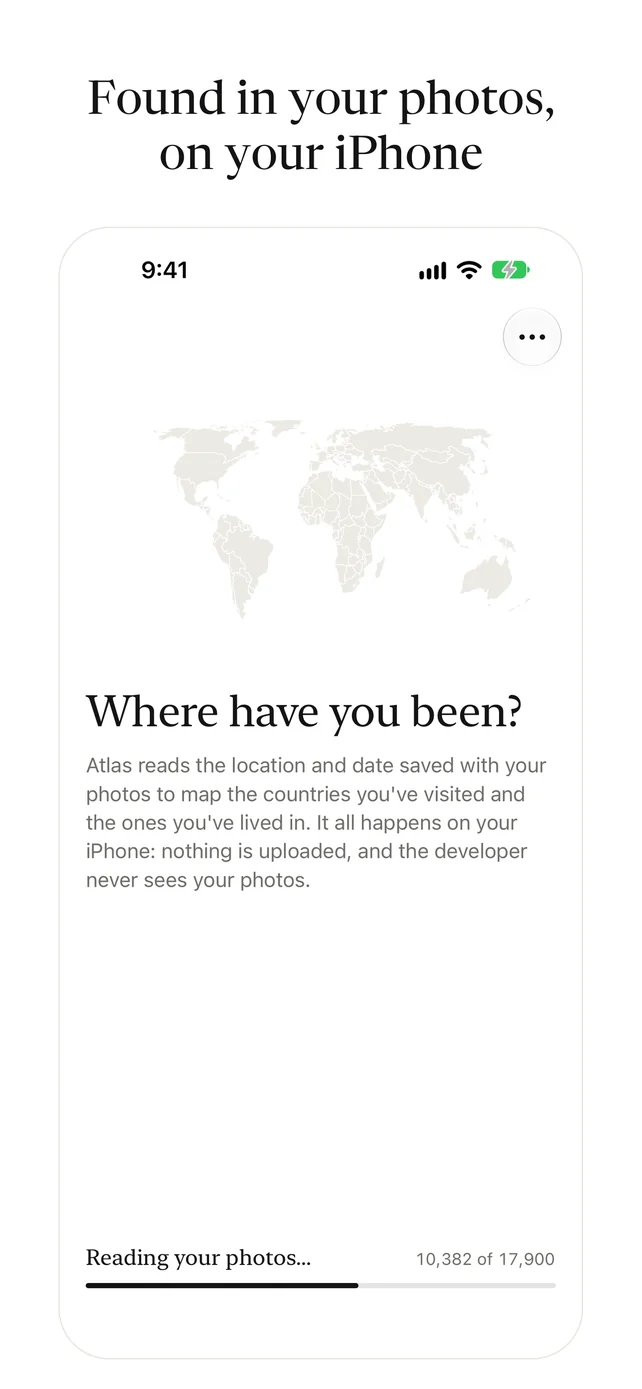
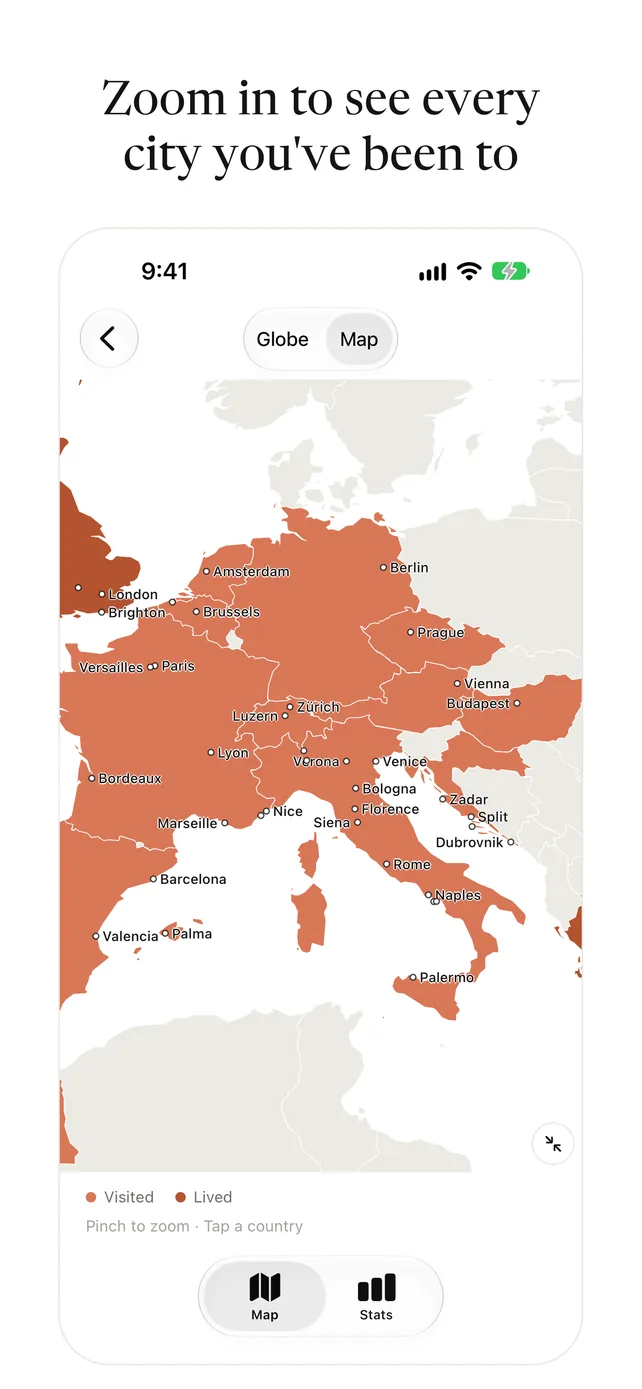
Atlas page for 1.2: cities, one-country share, globe video and zoom, land share, tips; new screenshots and FAQ

diff --git a/atlas/index.html b/atlas/index.html
@@ -3,8 +3,8 @@
 <head>
   <meta charset="utf-8">
   <meta name="viewport" content="width=device-width, initial-scale=1">
-  <title>Atlas: Every country you&#x27;ve been to, from your photos.</title>
-  <meta name="description" content="Atlas finds the countries you&#x27;ve been to in the photos on your iPhone and puts them on a world map. It reads only the location and date saved with each photo, on the phone. There is no account, and nothing is uploaded.">
+  <title>Atlas: Every country and city you&#x27;ve been to, from your photos.</title>
+  <meta name="description" content="Atlas finds the countries and cities you&#x27;ve been to in the photos on your iPhone and puts them on a world map. It reads only the location and date saved with each photo, on the phone. There is no account, and nothing is uploaded.">
   <meta name="theme-color" content="#ffffff">
   <meta name="google-site-verification" content="0HO-cftcZWuRyvlFjb1OlFsgFgWXaGyS6AsLK70I34Q">
   <meta name="toolradar-verify" content="toolradar-verify-rOrqezKzteNECKs2sFwvBf">
@@ -12,8 +12,8 @@
   <link rel="icon" type="image/png" sizes="16x16" href="../assets/favicon-16.png?v=0c1a7870">
   <link rel="icon" type="image/png" sizes="48x48" href="../assets/favicon-48.png?v=98163ec7">
   <link rel="apple-touch-icon" href="../assets/apple-touch-icon.png?v=97c86b02">
-  <meta property="og:title" content="Atlas: Every country you&#x27;ve been to, from your photos.">
-  <meta property="og:description" content="Atlas finds the countries you&#x27;ve been to in the photos on your iPhone and puts them on a world map. It reads only the location and date saved with each photo, on the phone. There is no account, and nothing is uploaded.">
+  <meta property="og:title" content="Atlas: Every country and city you&#x27;ve been to, from your photos.">
+  <meta property="og:description" content="Atlas finds the countries and cities you&#x27;ve been to in the photos on your iPhone and puts them on a world map. It reads only the location and date saved with each photo, on the phone. There is no account, and nothing is uploaded.">
   <meta name="apple-itunes-app" content="app-id=6826944036">
   <link rel="stylesheet" href="../assets/site.css?v=e253631e">
   <script src="../assets/site.js?v=ddfd6725" defer></script>
@@ -31,7 +31,7 @@
    "alternateName": "Atlas",
    "url": "https://cistrondev.github.io/atlas/",
    "inLanguage": "en",
-   "description": "Atlas finds the countries you've been to in the photos on your iPhone and puts them on a world map. It reads only the location and date saved with each photo, on the phone. There is no account, and nothing is uploaded.",
+   "description": "Atlas finds the countries and cities you've been to in the photos on your iPhone and puts them on a world map. It reads only the location and date saved with each photo, on the phone. There is no account, and nothing is uploaded.",
    "applicationCategory": "TravelApplication",
    "operatingSystem": "iOS 17.0 or later",
    "availableOnDevice": "iPhone",
@@ -45,10 +45,13 @@
     "https://cistrondev.github.io/assets/img/atlas/03.webp",
     "https://cistrondev.github.io/assets/img/atlas/04.webp",
     "https://cistrondev.github.io/assets/img/atlas/05.webp",
-    "https://cistrondev.github.io/assets/img/atlas/06.webp"
+    "https://cistrondev.github.io/assets/img/atlas/06.webp",
+    "https://cistrondev.github.io/assets/img/atlas/07.webp",
+    "https://cistrondev.github.io/assets/img/atlas/08.webp"
    ],
    "featureList": [
     "Your map, filled in",
+    "Every city",
     "Every trip",
     "Lived here",
     "Stats",
@@ -82,6 +85,14 @@
     },
     {
      "@type": "Question",
+     "name": "Does Atlas show the cities I've been to?",
+     "acceptedAnswer": {
+      "@type": "Answer",
+      "text": "<p>Yes. Each country's page lists the towns and cities in your photos, with the days you spent there, and the map shows them with their names when you zoom in. Atlas finds them on your iPhone from a list of about 160,000 places built into the app, so nothing is looked up online.<\/p>"
+     }
+    },
+    {
+     "@type": "Question",
      "name": "How does Atlas know where I've been?",
      "acceptedAnswer": {
       "@type": "Answer",
@@ -109,7 +120,15 @@
      "name": "Can I share my travel map?",
      "acceptedAnswer": {
       "@type": "Answer",
-      "text": "<p>Yes. Atlas makes a picture of your map and flags for an Instagram post or Story, and a line of flag emoji for your bio.<\/p>"
+      "text": "<p>Yes. Atlas makes a picture of your map and flags, or of a single country with its cities, for an Instagram post or Story. It can also make a 12-second video of your globe turning, and a line of flag emoji for your bio.<\/p>"
+     }
+    },
+    {
+     "@type": "Question",
+     "name": "Is Atlas free?",
+     "acceptedAnswer": {
+      "@type": "Answer",
+      "text": "<p>Yes. Atlas is free, with no ads, no account and no subscription. If you'd like to support it, you can leave an optional tip in the app. A tip unlocks nothing.<\/p>"
      }
     },
     {
@@ -154,19 +173,21 @@
     <section class="app-hero">
       <img class="app-icon app-icon-large" src="../assets/img/atlas/icon.png?v=2b6f9c77" width="256" height="256" alt="Atlas app icon">
       <h1>Atlas</h1>
-      <p class="app-tagline">Every country you&#x27;ve been to, from your photos.</p>
+      <p class="app-tagline">Every country and city you&#x27;ve been to, from your photos.</p>
       <p class="app-meta">Free · iPhone · iOS 17 or later</p>
       <p><a class="pill pill-large" href="https://apps.apple.com/app/id6826944036">View on the App Store</a></p>
     </section>
 
     <section class="gallery" data-gallery aria-label="Screenshots">
       <ul class="gallery-track" tabindex="0">
-          <li><img src="../assets/img/atlas/01.webp?v=773a258a" width="642" height="1389" alt="Every country you&#x27;ve been to, on one map: the count, the map and your list." loading="eager" decoding="async"></li>
-          <li><img src="../assets/img/atlas/02.webp?v=c2427e6f" width="642" height="1389" alt="Found in your photos, on your iPhone: nothing is uploaded." loading="eager" decoding="async"></li>
-          <li><img src="../assets/img/atlas/03.webp?v=dd4fa7c9" width="642" height="1389" alt="Tap any country to see your visits: zoom in anywhere on the map, or switch to the globe." loading="eager" decoding="async"></li>
-          <li><img src="../assets/img/atlas/04.webp?v=543cc476" width="642" height="1389" alt="Every trip, with its photos: each visit&#x27;s dates and pictures." loading="lazy" decoding="async"></li>
-          <li><img src="../assets/img/atlas/05.webp?v=96ab6ffb" width="642" height="1389" alt="Your travels, year by year: trips, days away and your busiest years." loading="lazy" decoding="async"></li>
-          <li><img src="../assets/img/atlas/06.webp?v=8a653eec" width="642" height="1389" alt="Share your map as a Story: a post and a line of flags too." loading="lazy" decoding="async"></li>
+          <li><img src="../assets/img/atlas/01.webp?v=b8b37ddf" width="642" height="1389" alt="Every country you&#x27;ve been to, on one map: the count, the map and your list." loading="eager" decoding="async"></li>
+          <li><img src="../assets/img/atlas/02.webp?v=7758c6c7" width="642" height="1389" alt="Zoom in to see every city you&#x27;ve been to: Europe with the cities&#x27; names." loading="eager" decoding="async"></li>
+          <li><img src="../assets/img/atlas/03.webp?v=df326a5a" width="642" height="1389" alt="Found in your photos, on your iPhone: nothing is uploaded." loading="eager" decoding="async"></li>
+          <li><img src="../assets/img/atlas/04.webp?v=37f9a955" width="642" height="1389" alt="Tap any country to see your visits: zoom in anywhere on the map, or switch to the globe." loading="lazy" decoding="async"></li>
+          <li><img src="../assets/img/atlas/05.webp?v=92f5ee0b" width="642" height="1389" alt="Each country&#x27;s cities, with your days there: Italy&#x27;s map and its cities." loading="lazy" decoding="async"></li>
+          <li><img src="../assets/img/atlas/06.webp?v=6e19b27f" width="642" height="1389" alt="Every trip, with its photos: each visit&#x27;s dates and pictures." loading="lazy" decoding="async"></li>
+          <li><img src="../assets/img/atlas/07.webp?v=38e2e612" width="642" height="1389" alt="Your travels, year by year: trips, days away, countries and cities." loading="lazy" decoding="async"></li>
+          <li><img src="../assets/img/atlas/08.webp?v=873236ca" width="642" height="1389" alt="Share your map as a Story: a post, one country or a globe video too." loading="lazy" decoding="async"></li>
       </ul>
       <div class="gallery-controls">
         <div class="gallery-paddles">
@@ -204,7 +225,7 @@
     </section>
 
     <section class="intro">
-      <p><strong>Atlas finds the countries you&#x27;ve been to in the photos on your iPhone and puts them on a world map.</strong> It reads only the location and date saved with each photo, on the phone. There is no account, and nothing is uploaded.</p>
+      <p><strong>Atlas finds the countries and cities you&#x27;ve been to in the photos on your iPhone and puts them on a world map.</strong> It reads only the location and date saved with each photo, on the phone. There is no account, and nothing is uploaded.</p>
     </section>
 
     <section class="promo">
@@ -216,11 +237,12 @@
 
     <section class="features">
       <ul>
-        <li><h3>Your map, filled in</h3><p>Every country in your photos, on a world map you can zoom into or on a turning globe. Tap any country to see how many times you&#x27;ve been, or to add one that isn&#x27;t in your photos.</p></li>
+        <li><h3>Your map, filled in</h3><p>Every country in your photos, on a world map you can zoom into, or on a globe you can spin and zoom. Tap any country to see how many times you&#x27;ve been, or to add one that isn&#x27;t in your photos. Tap the line under your count to see how much of the world&#x27;s land you&#x27;ve covered.</p></li>
+        <li><h3>Every city</h3><p>The towns and cities in your photos, listed on each country&#x27;s page with the days you spent there. Tap a city to see its photos, or zoom in on the map to see your cities with their names. Atlas finds them on your iPhone, from a list built into the app.</p></li>
         <li><h3>Every trip</h3><p>Each visit to a country, with its dates. Tap a trip to see its photos and hide any that aren&#x27;t from it. Merge trips that were really one.</p></li>
         <li><h3>Lived here</h3><p>Countries with 90 or more days of photos within a year are marked as places you&#x27;ve lived, in a deeper colour, with how long you lived there. Moving somewhere new doesn&#x27;t count as time away.</p></li>
-        <li><h3>Stats</h3><p>Trips and days away, countries per year (tap a year to see where you went), your busiest years, the countries you go back to most, and your longest trips.</p></li>
-        <li><h3>Share your map</h3><p>A picture of your map and flags for an Instagram post or Story, or all your flags as emoji for your bio.</p></li>
+        <li><h3>Stats</h3><p>Trips, days away and cities, countries per year (tap a year to see where you went), your busiest years, the countries you go back to most, and your longest trips.</p></li>
+        <li><h3>Share your map</h3><p>A picture of your map and flags, or of one country with its cities, for an Instagram post or Story; a 12-second video of your globe turning; or all your flags as emoji for your bio.</p></li>
         <li><h3>Fewer false visits</h3><p>Pictures saved from Instagram, WhatsApp and other apps are left out. You can add, edit or remove any country yourself.</p></li>
       </ul>
     </section>
@@ -232,6 +254,12 @@
           <h3>Is there an app that shows every country I&#x27;ve visited from my photos?</h3>
           <div class="faq-answer">
             <p>Atlas finds the countries you've been to in the photos on your iPhone and fills them in on a world map. It works from the location and date saved with each photo, so there is nothing to type in. Atlas is free on the App Store.</p>
+          </div>
+        </div>
+        <div class="faq-item">
+          <h3>Does Atlas show the cities I&#x27;ve been to?</h3>
+          <div class="faq-answer">
+            <p>Yes. Each country's page lists the towns and cities in your photos, with the days you spent there, and the map shows them with their names when you zoom in. Atlas finds them on your iPhone from a list of about 160,000 places built into the app, so nothing is looked up online.</p>
           </div>
         </div>
         <div class="faq-item">
@@ -255,7 +283,13 @@
         <div class="faq-item">
           <h3>Can I share my travel map?</h3>
           <div class="faq-answer">
-            <p>Yes. Atlas makes a picture of your map and flags for an Instagram post or Story, and a line of flag emoji for your bio.</p>
+            <p>Yes. Atlas makes a picture of your map and flags, or of a single country with its cities, for an Instagram post or Story. It can also make a 12-second video of your globe turning, and a line of flag emoji for your bio.</p>
+          </div>
+        </div>
+        <div class="faq-item">
+          <h3>Is Atlas free?</h3>
+          <div class="faq-answer">
+            <p>Yes. Atlas is free, with no ads, no account and no subscription. If you'd like to support it, you can leave an optional tip in the app. A tip unlocks nothing.</p>
           </div>
         </div>
         <div class="faq-item">

diff --git a/index.html b/index.html
@@ -235,12 +235,12 @@
       <article class="tile">
         <img class="app-icon" src="assets/img/atlas/icon.png?v=2b6f9c77" width="256" height="256" alt="">
         <h3>Atlas</h3>
-        <p class="tile-tagline">Every country you&#x27;ve been to, from your photos.</p>
+        <p class="tile-tagline">Every country and city you&#x27;ve been to, from your photos.</p>
         <p class="tile-actions">
           <a class="pill" href="atlas/">Learn more</a>
           <a class="pill pill-outline" href="https://apps.apple.com/app/id6826944036">App Store</a>
         </p>
-        <div class="tile-shots"><img src="assets/img/atlas/01.webp?v=773a258a" width="642" height="1389" alt="" loading="lazy" decoding="async"><img src="assets/img/atlas/03.webp?v=dd4fa7c9" width="642" height="1389" alt="" loading="lazy" decoding="async"><img src="assets/img/atlas/05.webp?v=96ab6ffb" width="642" height="1389" alt="" loading="lazy" decoding="async"></div>
+        <div class="tile-shots"><img src="assets/img/atlas/01.webp?v=b8b37ddf" width="642" height="1389" alt="" loading="lazy" decoding="async"><img src="assets/img/atlas/02.webp?v=7758c6c7" width="642" height="1389" alt="" loading="lazy" decoding="async"><img src="assets/img/atlas/07.webp?v=38e2e612" width="642" height="1389" alt="" loading="lazy" decoding="async"></div>
       </article>
       <article class="tile">
         <img class="app-icon" src="assets/img/jobsitecalc/icon.png?v=77e0ec99" width="256" height="256" alt="">

diff --git a/build.py b/build.py
@@ -602,19 +602,26 @@ APPS = [
         "name": "Atlas",
         "store_name": "Atlas: Travel Map From Photos",
         "id": "6826944036",
-        "tagline": "Every country you've been to, from your photos.",
+        "tagline": "Every country and city you've been to, from your photos.",
         "pricing": "Free",
         "intro": (
-            "Atlas finds the countries you've been to in the photos on your "
-            "iPhone and puts them on a world map.",
+            "Atlas finds the countries and cities you've been to in the photos "
+            "on your iPhone and puts them on a world map.",
             "It reads only the location and date saved with each photo, on the "
             "phone. There is no account, and nothing is uploaded.",
         ),
         "features": [
             ("Your map, filled in",
-             "Every country in your photos, on a world map you can zoom into or "
-             "on a turning globe. Tap any country to see how many times you've "
-             "been, or to add one that isn't in your photos."),
+             "Every country in your photos, on a world map you can zoom into, or "
+             "on a globe you can spin and zoom. Tap any country to see how many "
+             "times you've been, or to add one that isn't in your photos. Tap the "
+             "line under your count to see how much of the world's land you've "
+             "covered."),
+            ("Every city",
+             "The towns and cities in your photos, listed on each country's page "
+             "with the days you spent there. Tap a city to see its photos, or zoom "
+             "in on the map to see your cities with their names. Atlas finds them "
+             "on your iPhone, from a list built into the app."),
             ("Every trip",
              "Each visit to a country, with its dates. Tap a trip to see its "
              "photos and hide any that aren't from it. Merge trips that were "
@@ -624,12 +631,13 @@ APPS = [
              "as places you've lived, in a deeper colour, with how long you lived "
              "there. Moving somewhere new doesn't count as time away."),
             ("Stats",
-             "Trips and days away, countries per year (tap a year to see where "
-             "you went), your busiest years, the countries you go back to most, "
-             "and your longest trips."),
+             "Trips, days away and cities, countries per year (tap a year to see "
+             "where you went), your busiest years, the countries you go back to "
+             "most, and your longest trips."),
             ("Share your map",
-             "A picture of your map and flags for an Instagram post or Story, "
-             "or all your flags as emoji for your bio."),
+             "A picture of your map and flags, or of one country with its cities, "
+             "for an Instagram post or Story; a 12-second video of your globe "
+             "turning; or all your flags as emoji for your bio."),
             ("Fewer false visits",
              "Pictures saved from Instagram, WhatsApp and other apps are left "
              "out. You can add, edit or remove any country yourself."),
@@ -670,16 +678,18 @@ APPS = [
                    "A photo kept only in iCloud is downloaded by Photos when you open it, as "
                    "in the Photos app.",
         "note": "",
-        "tile": [1, 3, 5],
+        "tile": [1, 2, 7],
         "languages": ["en"],
         "category": "TravelApplication",   # schema.org applicationCategory
         "shots": [
             "Every country you've been to, on one map: the count, the map and your list.",
+            "Zoom in to see every city you've been to: Europe with the cities' names.",
             "Found in your photos, on your iPhone: nothing is uploaded.",
             "Tap any country to see your visits: zoom in anywhere on the map, or switch to the globe.",
+            "Each country's cities, with your days there: Italy's map and its cities.",
             "Every trip, with its photos: each visit's dates and pictures.",
-            "Your travels, year by year: trips, days away and your busiest years.",
-            "Share your map as a Story: a post and a line of flags too.",
+            "Your travels, year by year: trips, days away, countries and cities.",
+            "Share your map as a Story: a post, one country or a globe video too.",
         ],
     },
     {

diff --git a/content/atlas/en.py b/content/atlas/en.py
@@ -16,6 +16,12 @@ L = {
             "them in on a world map. It works from the location and date saved with each "
             "photo, so there is nothing to type in. Atlas is free on the App Store.",
         ]),
+        ("Does Atlas show the cities I've been to?", [
+            "Yes. Each country's page lists the towns and cities in your photos, with the days "
+            "you spent there, and the map shows them with their names when you zoom in. Atlas "
+            "finds them on your iPhone from a list of about 160,000 places built into the app, "
+            "so nothing is looked up online.",
+        ]),
         ("How does Atlas know where I've been?", [
             "Most iPhone photos carry the place and time they were taken. Atlas reads those "
             "two details, works out the country, and groups photos taken close together "
@@ -32,8 +38,13 @@ L = {
             "somewhere new doesn't count as time away.",
         ]),
         ("Can I share my travel map?", [
-            "Yes. Atlas makes a picture of your map and flags for an Instagram post or Story, "
-            "and a line of flag emoji for your bio.",
+            "Yes. Atlas makes a picture of your map and flags, or of a single country with its "
+            "cities, for an Instagram post or Story. It can also make a 12-second video of your "
+            "globe turning, and a line of flag emoji for your bio.",
+        ]),
+        ("Is Atlas free?", [
+            "Yes. Atlas is free, with no ads, no account and no subscription. If you'd like to "
+            "support it, you can leave an optional tip in the app. A tip unlocks nothing.",
         ]),
         ("Does Atlas upload my photos?", [
             "No. Atlas reads the location and date of your photos on the phone, has no account, "
